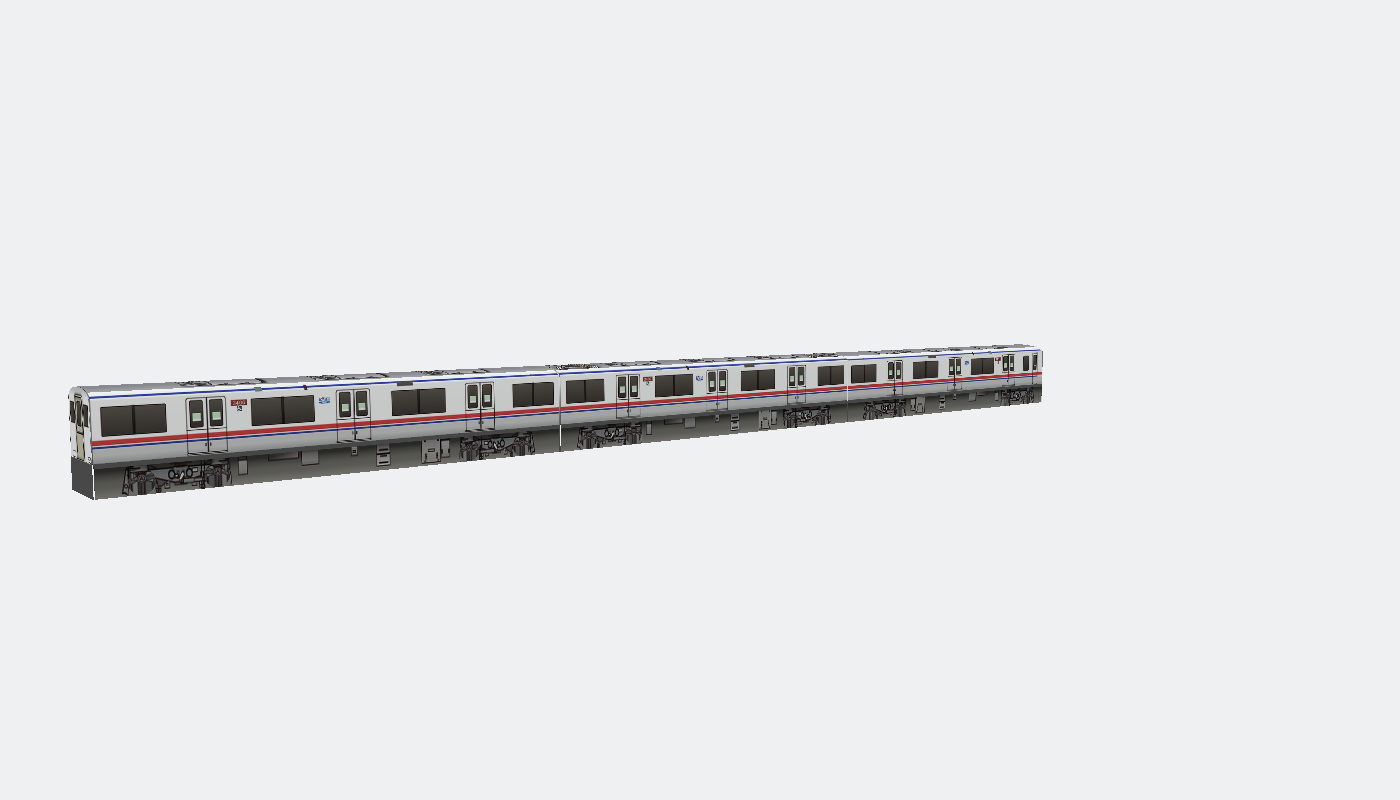
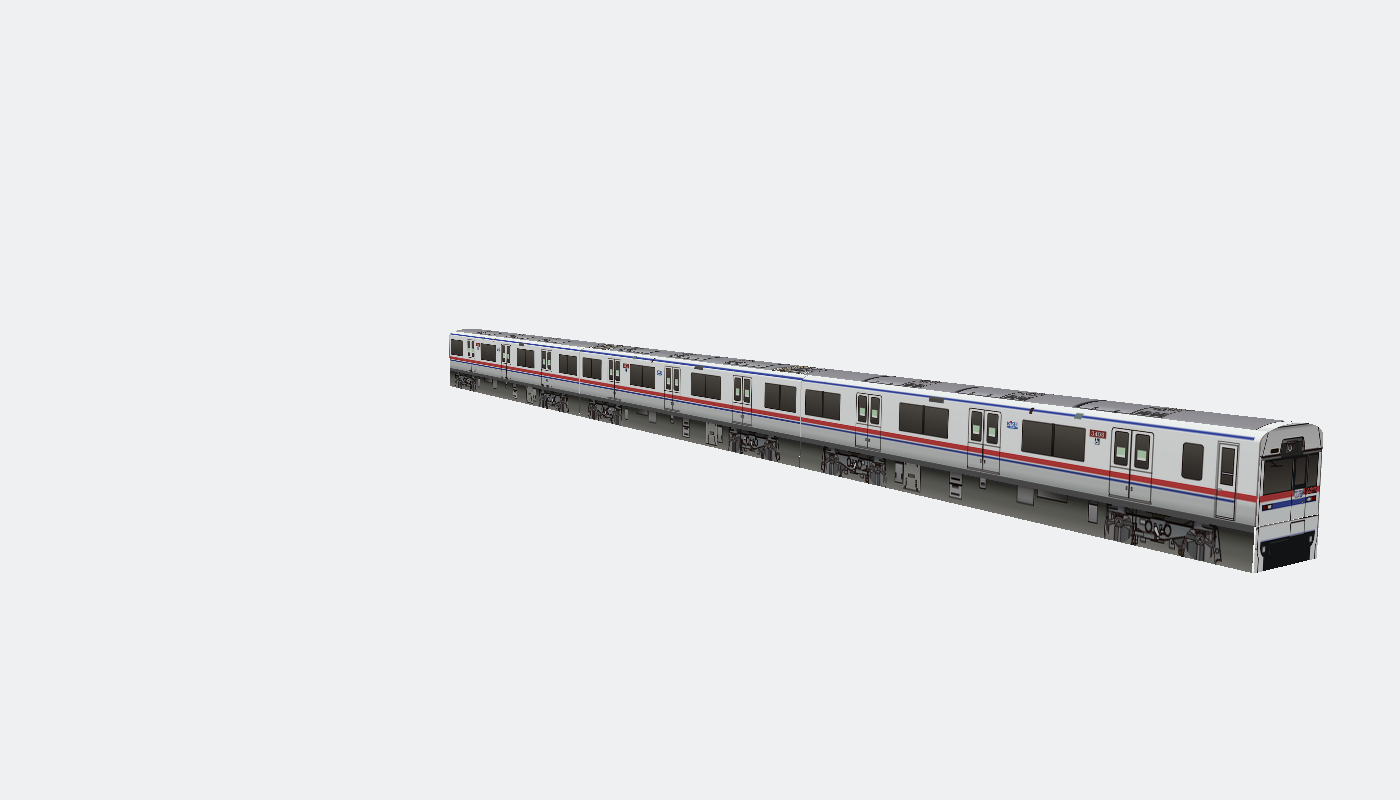
Batch 301-350 audit page (50/50 complete): add jr-east-255, keikyu-1000, hankyu-8300; keisei-3400 v2 re-render images; 150 images, margins 150/150 pass

Changed region(s): [[0.0307, 0.4062, 0.9521, 0.7188]]

diff --git a/batch301-350/index.html b/batch301-350/index.html
@@ -3,7 +3,7 @@
 <head>
 <meta charset="utf-8">
 <meta name="viewport" content="width=device-width, initial-scale=1">
-<title>第 301–350 批审核（47 / 50，剩余 3 辆待补）</title>
+<title>第 301–350 批审核（50 / 50 完整版）</title>
 <style>
   body { font-family: -apple-system, "PingFang SC", "Microsoft YaHei", sans-serif; margin: 0; background: #f4f4f4; color: #222; }
   header { background: #1a3a5c; color: #fff; padding: 20px 24px; }
@@ -25,13 +25,12 @@
 </head>
 <body>
 <header>
-  <h1>第 301–350 批审核（47 / 50，剩余 3 辆待补）</h1>
-  <p>每辆三张图：整列、斜视角、三维形态图。点击上方编号跳转。分支 models-pipeline，index 621 个模型，map 624 条线 key（页面生成时实测，远端头 ee11422）。</p>
-  <p class="fixnote">剩余 3 辆待补进本页刷新为 50 / 50 完整版：jr-east-255（G3）、keikyu-1000、hankyu-8300（G4R 替补组）。</p>
-  <p class="fixnote">本批停工 2 辆（不在 47 辆内）：jr-kyusyu-813（两份 813 图纸均为京阪 600 错标）、jr-east-719（图纸实为 JR九州キハ47「美作国建国1300年」）；替补 keikyu-1000 + hankyu-8300 已派 G4R 组。</p>
-  <p class="fixnote">本批 50 辆全部 unmapped 推，无新 map key；运行线现指见各车条目。keisei-3400 本页用返工后新图（a866bf2b）。</p>
+  <h1>第 301–350 批审核（50 / 50 完整版）</h1>
+  <p>每辆三张图：整列、斜视角、三维形态图。点击上方编号跳转。分支 models-pipeline，index 624 个模型，map 624 条线 key（总协调 2026-11-25 22:30 实测，远端头 76c19ba6）。</p>
+  <p class="fixnote">本批停工 2 辆不在页内：jr-kyusyu-813（两份 813 图纸均为京阪 600 错标）、jr-east-719（图纸实为 JR九州キハ47「美作国建国1300年」）；替补 keikyu-1000 + hankyu-8300 已推，凑满 50 辆。</p>
+  <p class="fixnote">本批 50 辆全部 unmapped 推，无新 map key；运行线现指见各车条目。keisei-3400 本页用 v2 重渲图（返工提交 a866bf2b，斜视角/三维形态图从 3408 端取景）。</p>
 </header>
-<nav><a href="#jnr-kiha58">1</a> <a href="#hankai-701">2</a> <a href="#jr-east-183">3</a> <a href="#jnr-kiha181">4</a> <a href="#osakametro-30000">5</a> <a href="#keisei-3600">6</a> <a href="#jr-kyusyu-713">7</a> <a href="#jr-tokai-119">8</a> <a href="#jr-east-485">9</a> <a href="#jr-tokai-117">10</a> <a href="#toyohasi-3200">11</a> <a href="#jr-kyusyu-kiha147">12</a> <a href="#jr-ef81">13</a> <a href="#jr-west-kiha41">14</a> <a href="#jr-west-dec743">15</a> <a href="#meitetsu-1700">16</a> <a href="#keisei-3400">17</a> <a href="#hankyu-8200">18</a> <a href="#kintetsu-2800">19</a> <a href="#hokuso-7300">20</a> <a href="#eizan-900">21</a> <a href="#odakyu-1000">22</a> <a href="#kintetsu-1200">23</a> <a href="#jnr-155">24</a> <a href="#sapporosiden-210">25</a> <a href="#tizukyu-hot3500">26</a> <a href="#hansin-5001">27</a> <a href="#keihuku-611">28</a> <a href="#tobu-10030">29</a> <a href="#odakyu-5000">30</a> <a href="#sanyo-5030">31</a> <a href="#titibu-7800">32</a> <a href="#iga-860">33</a> <a href="#jr-west-381">34</a> <a href="#sanki-801">35</a> <a href="#jr-east-457">36</a> <a href="#aoimori-701">37</a> <a href="#jr-hokkaido-kiha183">38</a> <a href="#jr-tokai-371">39</a> <a href="#sendai-sub-3000">40</a> <a href="#hokuriku-7700">41</a> <a href="#jr-east-415">42</a> <a href="#kobesub-2000">43</a> <a href="#jr-east-251">44</a> <a href="#jr-east-165">45</a> <a href="#sapporosiden-a1200">46</a> <a href="#kobesub-3000">47</a></nav>
+<nav><a href="#jnr-kiha58">1</a> <a href="#hankai-701">2</a> <a href="#jr-east-183">3</a> <a href="#jnr-kiha181">4</a> <a href="#osakametro-30000">5</a> <a href="#keisei-3600">6</a> <a href="#jr-kyusyu-713">7</a> <a href="#jr-tokai-119">8</a> <a href="#jr-east-485">9</a> <a href="#jr-tokai-117">10</a> <a href="#toyohasi-3200">11</a> <a href="#jr-kyusyu-kiha147">12</a> <a href="#jr-ef81">13</a> <a href="#jr-west-kiha41">14</a> <a href="#jr-west-dec743">15</a> <a href="#meitetsu-1700">16</a> <a href="#keisei-3400">17</a> <a href="#hankyu-8200">18</a> <a href="#kintetsu-2800">19</a> <a href="#hokuso-7300">20</a> <a href="#eizan-900">21</a> <a href="#odakyu-1000">22</a> <a href="#kintetsu-1200">23</a> <a href="#jnr-155">24</a> <a href="#sapporosiden-210">25</a> <a href="#tizukyu-hot3500">26</a> <a href="#hansin-5001">27</a> <a href="#keihuku-611">28</a> <a href="#tobu-10030">29</a> <a href="#odakyu-5000">30</a> <a href="#sanyo-5030">31</a> <a href="#titibu-7800">32</a> <a href="#iga-860">33</a> <a href="#jr-west-381">34</a> <a href="#sanki-801">35</a> <a href="#jr-east-457">36</a> <a href="#aoimori-701">37</a> <a href="#jr-hokkaido-kiha183">38</a> <a href="#jr-tokai-371">39</a> <a href="#sendai-sub-3000">40</a> <a href="#hokuriku-7700">41</a> <a href="#jr-east-415">42</a> <a href="#kobesub-2000">43</a> <a href="#jr-east-251">44</a> <a href="#jr-east-165">45</a> <a href="#sapporosiden-a1200">46</a> <a href="#kobesub-3000">47</a> <a href="#jr-east-255">48</a> <a href="#keikyu-1000">49</a> <a href="#hankyu-8300">50</a></nav>
 <main>
     <section id="jnr-kiha58">
       <h2>1. 国鉄キハ58形 <span class="mid">jnr-kiha58</span></h2>
@@ -198,7 +197,7 @@
       <h2>17. 京成3400形3408編成 <span class="mid">keisei-3400</span></h2>
       <p class="lines">编组：3 辆 &nbsp;·&nbsp; 运行线：京成本線（现指 keisei-3100） &nbsp;·&nbsp; 未映射（本批 50 辆全部 unmapped 推）</p>
       <p class="lines">提交：ef675bb（models-pipeline 分支）</p>
-      <p class="lines">返工：3408 前脸按实车重组（红上蓝下移至风挡下方腰线、车号 3408 移入红带内），返工提交 a866bf2b；本页三张图为返工后新图。</p>
+      <p class="lines">返工：3408 前脸按实车重组（红上蓝下移至风挡下方腰线、车号 3408 移入红带内），返工提交 a866bf2b；本页三张图为 v2 重渲图（新 car3.glb 真重渲，斜视角/三维形态图从 3408 端取景，新前脸可见）。</p>
       <div class="imgs">
       <figure><img src="keisei-3400/user_consist_side.png" alt="整列"><figcaption>整列</figcaption></figure>
       <figure><img src="keisei-3400/user_oblique.png" alt="斜视角"><figcaption>斜视角</figcaption></figure>
@@ -504,6 +503,39 @@
       <figure><img src="kobesub-3000/user_consist_side.png" alt="整列"><figcaption>整列</figcaption></figure>
       <figure><img src="kobesub-3000/user_oblique.png" alt="斜视角"><figcaption>斜视角</figcaption></figure>
       <figure><img src="kobesub-3000/user_3dform.png" alt="三维形态图"><figcaption>三维形态图</figcaption></figure>
+      </div>
+    </section>
+    <section id="jr-east-255">
+      <h2>48. JR東日本255系「房総ビューエクスプレス」 <span class="mid">jr-east-255</span></h2>
+      <p class="lines">编组：2 辆 &nbsp;·&nbsp; 运行线：総武本線/外房線（现指 e217） &nbsp;·&nbsp; 未映射（本批 50 辆全部 unmapped 推）</p>
+      <p class="lines">提交：93fc794（models-pipeline 分支）</p>
+      <p class="lines">注：本模型仅 8/9 号车 [モハ255][クハ255]（实车相邻编组），缺 1–7 号车无图。</p>
+      <div class="imgs">
+      <figure><img src="jr-east-255/user_consist_side.png" alt="整列"><figcaption>整列</figcaption></figure>
+      <figure><img src="jr-east-255/user_oblique.png" alt="斜视角"><figcaption>斜视角</figcaption></figure>
+      <figure><img src="jr-east-255/user_3dform.png" alt="三维形态图"><figcaption>三维形态图</figcaption></figure>
+      </div>
+    </section>
+    <section id="keikyu-1000">
+      <h2>49. 京急1000形（2代） <span class="mid">keikyu-1000</span></h2>
+      <p class="lines">编组：4 辆 &nbsp;·&nbsp; 运行线：京急本線（现指 keikyu-2100） &nbsp;·&nbsp; 未映射（本批 50 辆全部 unmapped 推）</p>
+      <p class="lines">提交：6b64554（models-pipeline 分支）</p>
+      <p class="lines">注：net1 Mc 车顶漏画受电弓（实车有 1 架弓，图纸漏画，按 skill“禁止重画”不补画）；侧带纵向压缩约 0.875，门高比实车短约 9%。</p>
+      <div class="imgs">
+      <figure><img src="keikyu-1000/user_consist_side.png" alt="整列"><figcaption>整列</figcaption></figure>
+      <figure><img src="keikyu-1000/user_oblique.png" alt="斜视角"><figcaption>斜视角</figcaption></figure>
+      <figure><img src="keikyu-1000/user_3dform.png" alt="三维形态图"><figcaption>三维形态图</figcaption></figure>
+      </div>
+    </section>
+    <section id="hankyu-8300">
+      <h2>50. 阪急8300系 <span class="mid">hankyu-8300</span></h2>
+      <p class="lines">编组：4 辆 &nbsp;·&nbsp; 运行线：京都本線（现指 hankyu-7300） &nbsp;·&nbsp; 未映射（本批 50 辆全部 unmapped 推）</p>
+      <p class="lines">提交：76c19ba（models-pipeline 分支）</p>
+      <p class="lines">注：Mc'（8400）无图纸，car4 复用 net1 并 FLIP_Y180 作远端司机车；编组 4 辆 [Mc, T, M, Mc']（2026 年起运行的 4 辆编成），8 辆编成缺 5 辆中间车无图，不伪造。</p>
+      <div class="imgs">
+      <figure><img src="hankyu-8300/user_consist_side.png" alt="整列"><figcaption>整列</figcaption></figure>
+      <figure><img src="hankyu-8300/user_oblique.png" alt="斜视角"><figcaption>斜视角</figcaption></figure>
+      <figure><img src="hankyu-8300/user_3dform.png" alt="三维形态图"><figcaption>三维形态图</figcaption></figure>
       </div>
     </section>
 </main>
